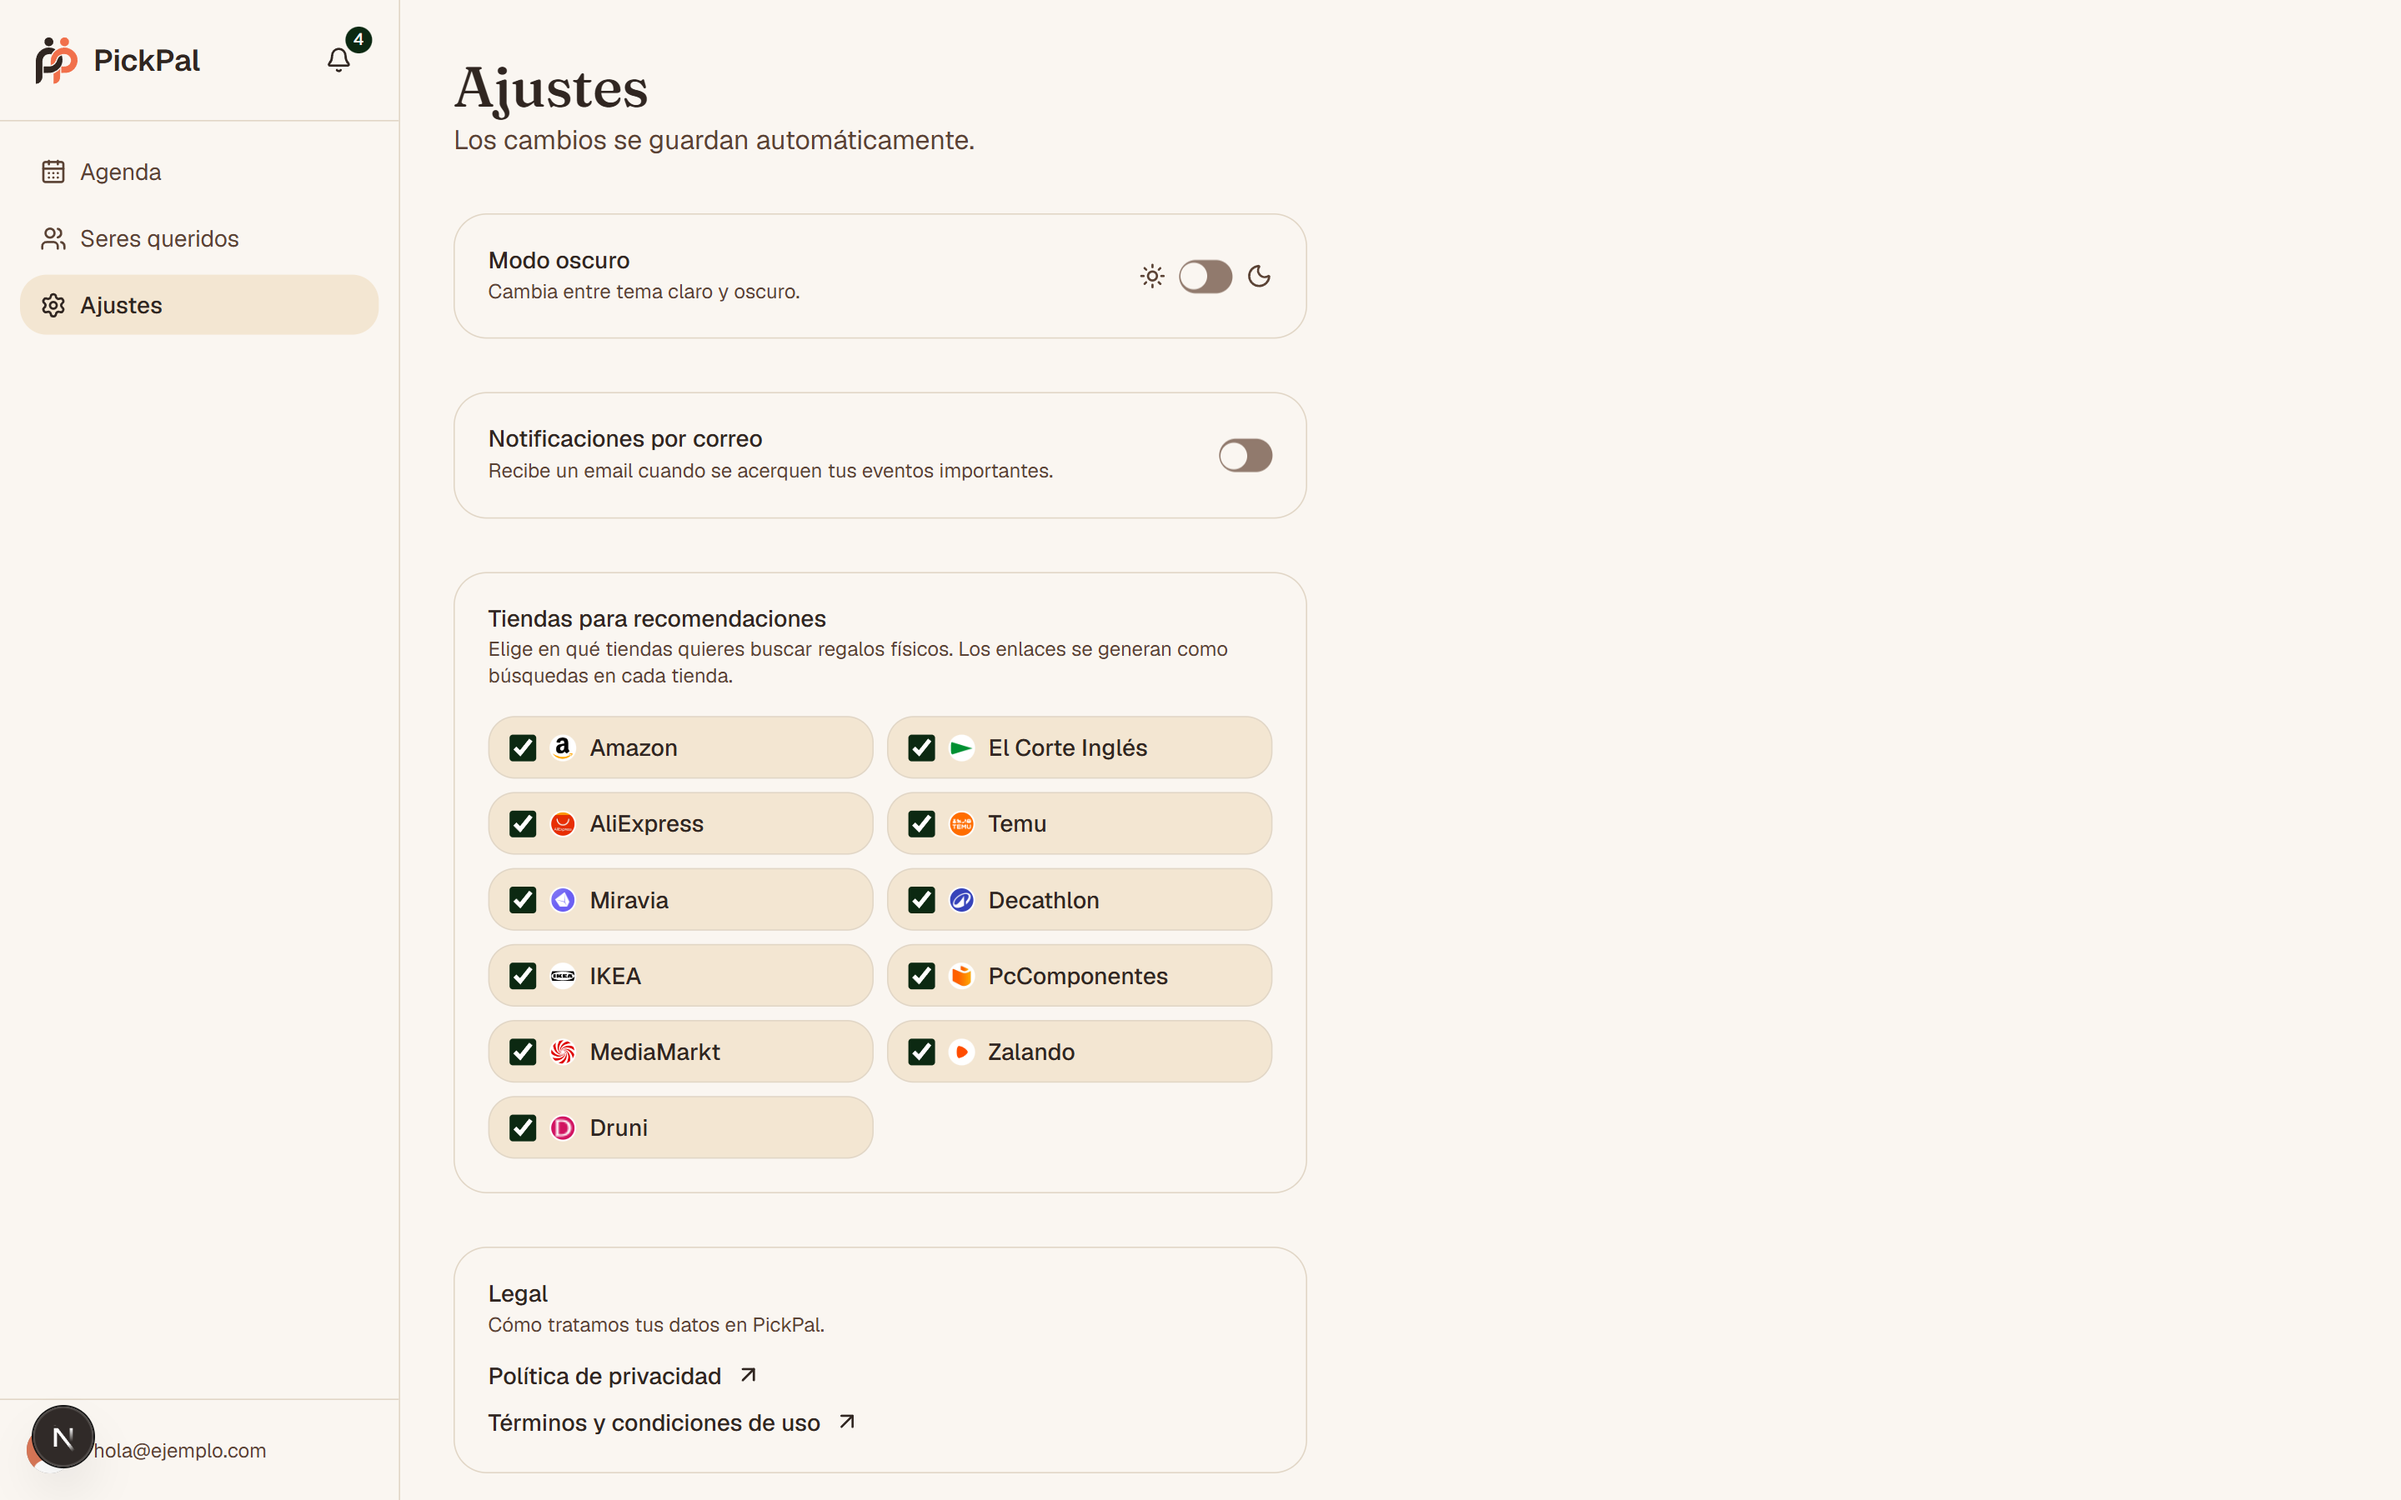
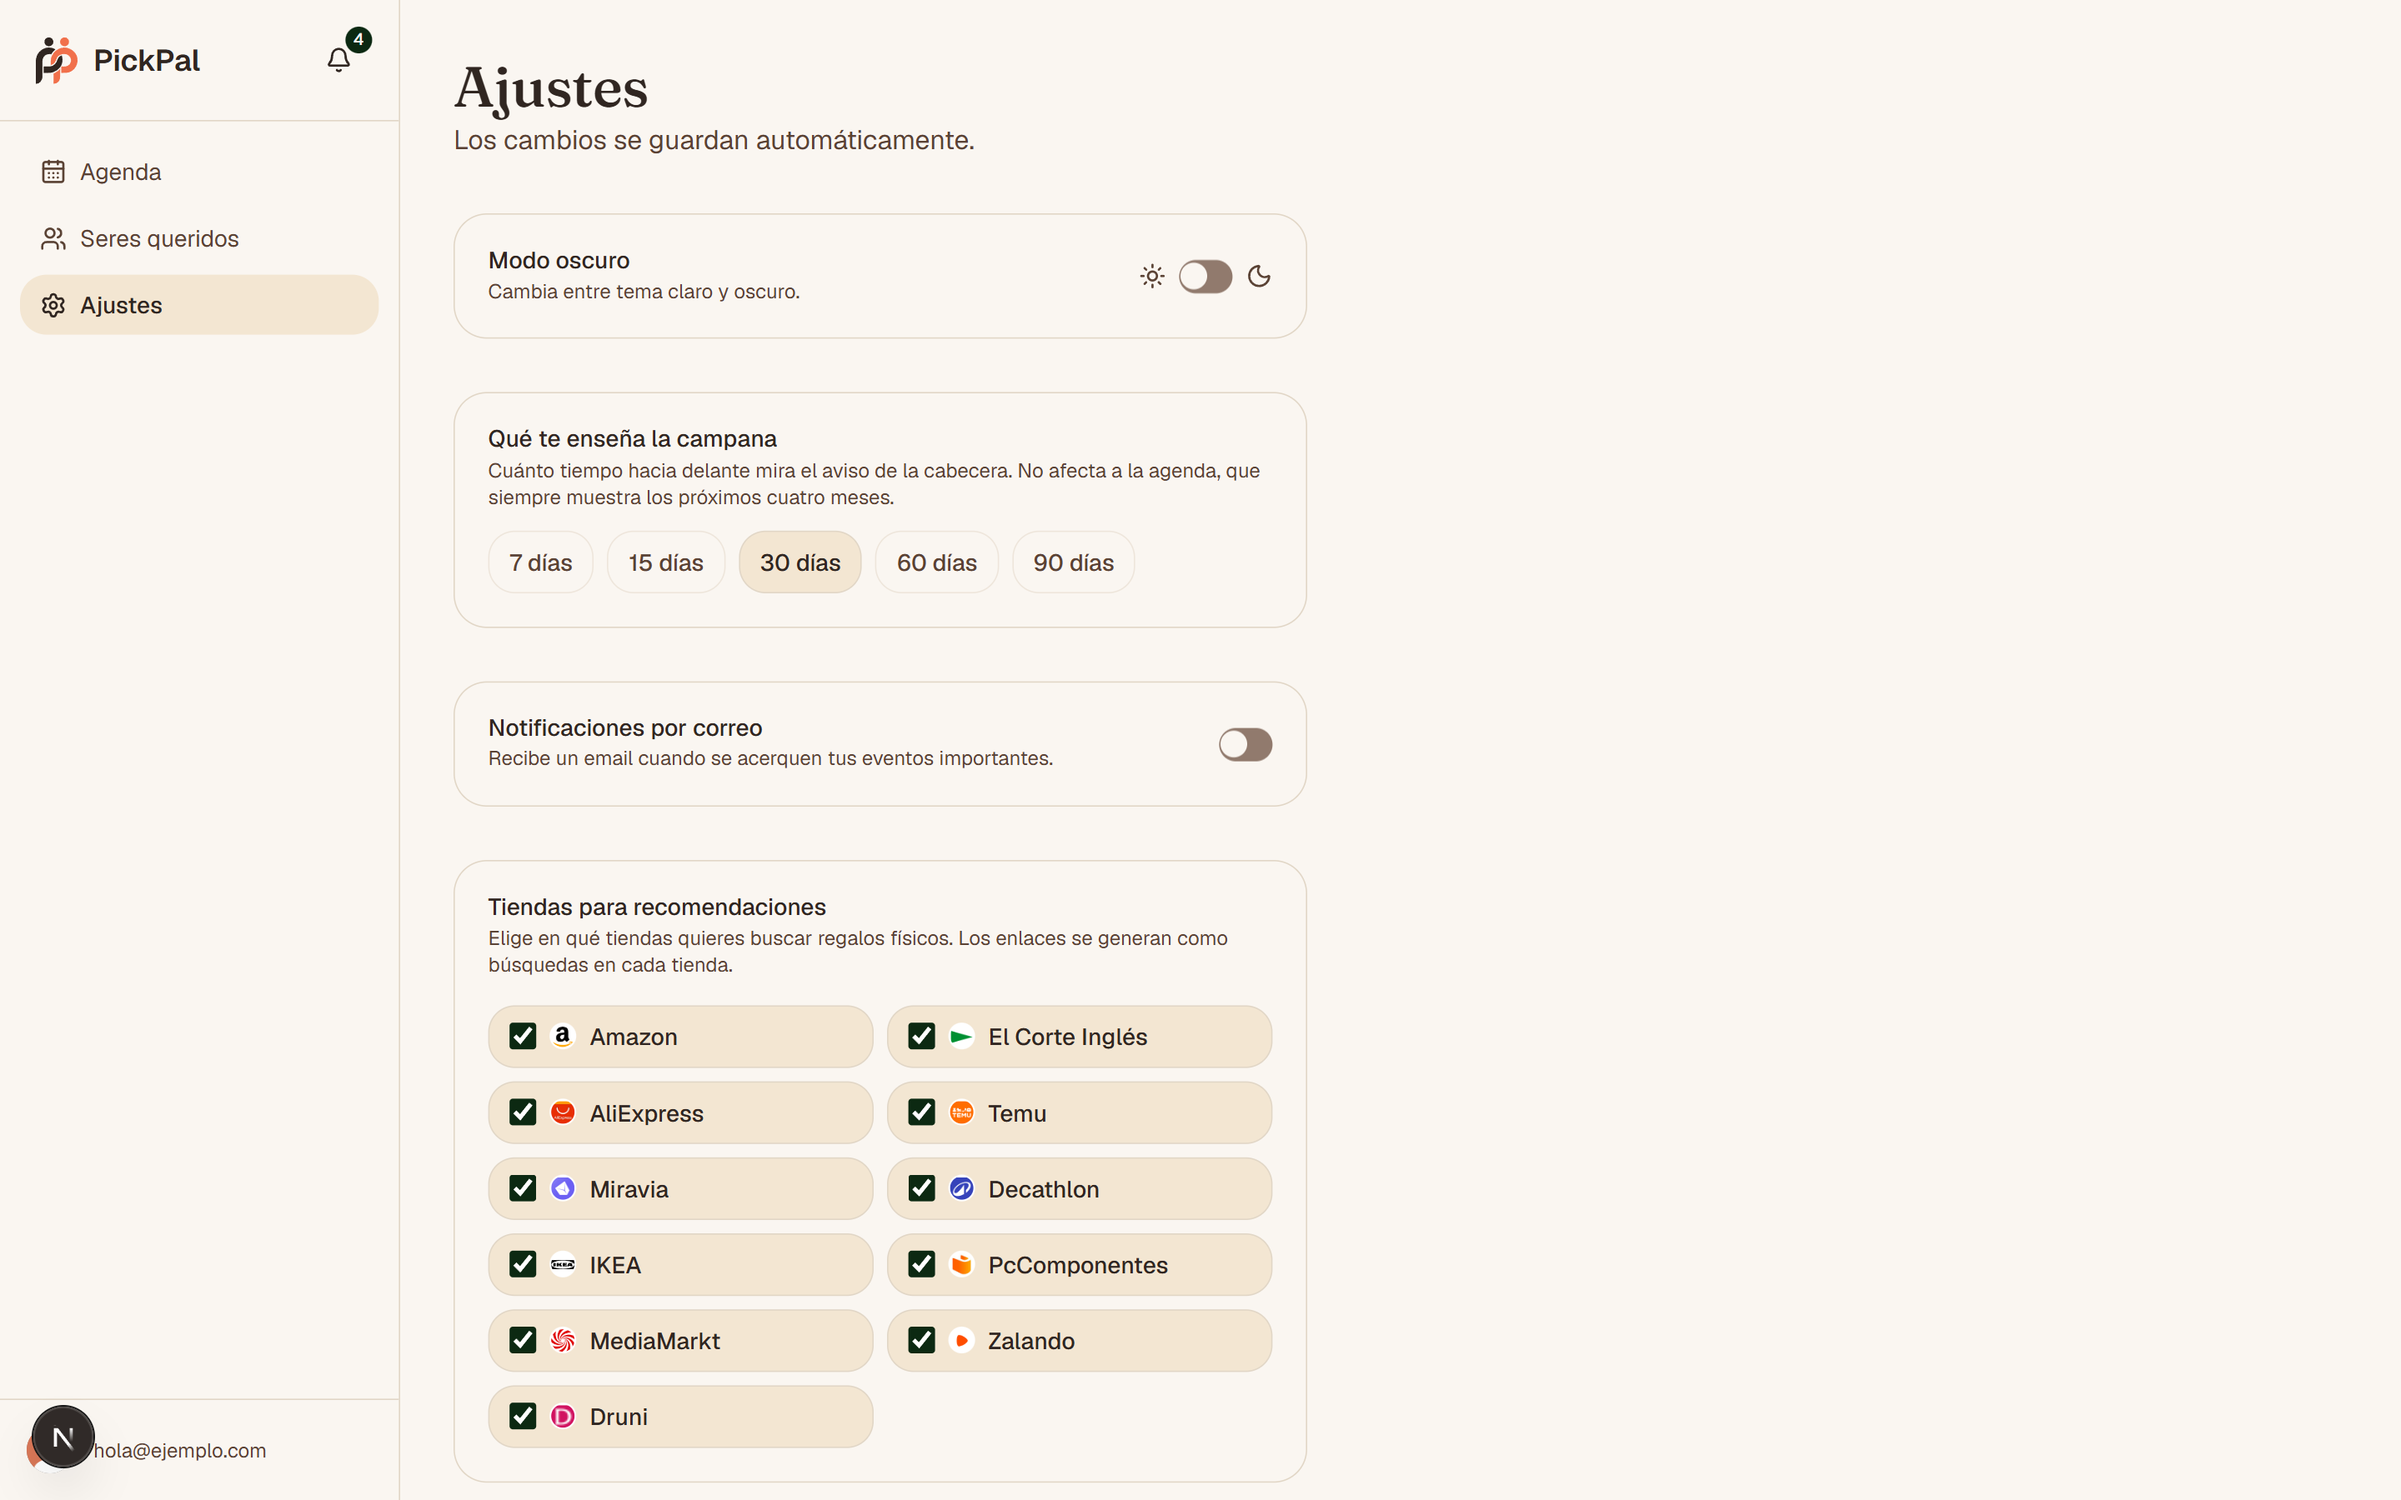
feat(settings): expose the notification window
notifyDaysBefore had been in userSettings from the start, validated 1–365
on the server and read by the header bell, and no screen ever exposed it.
It could only be changed through the API, which is the worst of both: a
setting that exists, works, and nobody can reach.

Exposed rather than removed. The backend was complete, so deleting the
field would have meant a schema migration to take away a capability that
already worked — and per this project's own note, removing a field breaks
production while documents still carry it.

/settings now offers five presets (7, 15, 30, 60, 90 days) instead of a
free number input. The server accepts the whole 1–365 range, but a text
field for this is more rope than anyone needs: presets make an invalid
state unreachable from the UI. The control reuses the optimistic save()
helper every other setting on the page uses, and says explicitly that it
does not affect the agenda, which always shows four months.

settings.test.ts covers the validation that now matters: the five presets,
both ends of the range, rejection of 0, negatives, 366 and non-integers,
that a rejected value does not overwrite the stored one, and that settings
are per-user. 185 tests in total.

Verified the control renders with the right default selected; the click
path is the same save() the rest of the page uses, and the bell reads
settings.notifyDaysBefore as it already did.

Changed region(s): [[0.1875, 0.28, 0.5312, 0.9644]]

diff --git a/convex/settings.test.ts b/convex/settings.test.ts
@@ -1,0 +1,99 @@
+/// <reference types="vite/client" />
+// @vitest-environment edge-runtime
+
+// `notifyDaysBefore` estuvo desde el principio en el schema, validado de 1 a
+// 365, y hasta el 20-sep-2026 ninguna pantalla lo exponía: solo se podía tocar
+// por API. Ahora hay un control en /settings, así que los rangos que el
+// servidor acepta pasan a importar de verdad.
+
+import { convexTest } from "convex-test";
+import { describe, expect, test } from "vitest";
+import { api } from "./_generated/api";
+import schema from "./schema";
+import {
+  DEFAULT_NOTIFY_DAYS_BEFORE,
+  DEFAULT_EMAIL_NOTIFICATIONS_ENABLED,
+} from "./settings";
+
+const modules = import.meta.glob("./**/*.ts");
+
+const ALICE = { subject: "user_alice", issuer: "https://test.clerk.dev" };
+const BOB = { subject: "user_bob", issuer: "https://test.clerk.dev" };
+
+describe("valores por defecto", () => {
+  test("la ventana de la campana arranca en 30", async () => {
+    const t = convexTest(schema, modules);
+    const s = await t.withIdentity(ALICE).query(api.settings.getMine, {});
+    expect(s.notifyDaysBefore).toBe(DEFAULT_NOTIFY_DAYS_BEFORE);
+    expect(DEFAULT_NOTIFY_DAYS_BEFORE).toBe(30);
+  });
+
+  test("los avisos por correo salen apagados, que es la base legal declarada", async () => {
+    const t = convexTest(schema, modules);
+    const s = await t.withIdentity(ALICE).query(api.settings.getMine, {});
+    expect(s.emailNotificationsEnabled).toBe(false);
+    expect(DEFAULT_EMAIL_NOTIFICATIONS_ENABLED).toBe(false);
+  });
+});
+
+describe("notifyDaysBefore", () => {
+  test("acepta los presets que ofrece la interfaz", async () => {
+    const t = convexTest(schema, modules);
+    const alice = t.withIdentity(ALICE);
+    for (const dias of [7, 15, 30, 60, 90]) {
+      await alice.mutation(api.settings.setMine, { notifyDaysBefore: dias });
+      const s = await alice.query(api.settings.getMine, {});
+      expect(s.notifyDaysBefore).toBe(dias);
+    }
+  });
+
+  test("acepta los extremos del rango", async () => {
+    const t = convexTest(schema, modules);
+    const alice = t.withIdentity(ALICE);
+    for (const dias of [1, 365]) {
+      await alice.mutation(api.settings.setMine, { notifyDaysBefore: dias });
+      expect((await alice.query(api.settings.getMine, {})).notifyDaysBefore).toBe(dias);
+    }
+  });
+
+  test("rechaza lo que cae fuera", async () => {
+    const t = convexTest(schema, modules);
+    const alice = t.withIdentity(ALICE);
+    for (const malo of [0, -1, 366, 1000]) {
+      await expect(
+        alice.mutation(api.settings.setMine, { notifyDaysBefore: malo }),
+      ).rejects.toThrow();
+    }
+  });
+
+  test("rechaza los no enteros", async () => {
+    const t = convexTest(schema, modules);
+    await expect(
+      t.withIdentity(ALICE).mutation(api.settings.setMine, { notifyDaysBefore: 7.5 }),
+    ).rejects.toThrow();
+  });
+
+  test("un valor rechazado no pisa el que ya estaba guardado", async () => {
+    const t = convexTest(schema, modules);
+    const alice = t.withIdentity(ALICE);
+    await alice.mutation(api.settings.setMine, { notifyDaysBefore: 15 });
+    await expect(
+      alice.mutation(api.settings.setMine, { notifyDaysBefore: 9999 }),
+    ).rejects.toThrow();
+    expect((await alice.query(api.settings.getMine, {})).notifyDaysBefore).toBe(15);
+  });
+
+  test("los ajustes son de cada usuario", async () => {
+    const t = convexTest(schema, modules);
+    await t.withIdentity(ALICE).mutation(api.settings.setMine, { notifyDaysBefore: 90 });
+    const deBob = await t.withIdentity(BOB).query(api.settings.getMine, {});
+    expect(deBob.notifyDaysBefore).toBe(DEFAULT_NOTIFY_DAYS_BEFORE);
+  });
+
+  test("sin sesión no se guarda nada", async () => {
+    const t = convexTest(schema, modules);
+    await expect(
+      t.mutation(api.settings.setMine, { notifyDaysBefore: 7 }),
+    ).rejects.toThrow(/Sesión no encontrada/);
+  });
+});

diff --git a/src/app/(app)/settings/page.tsx b/src/app/(app)/settings/page.tsx
@@ -32,6 +32,17 @@ import {
   type StoreId,
 } from "@/lib/stores";
 
+// Ventana de la campana. El servidor acepta de 1 a 365 (convex/settings.ts),
+// pero un campo numérico libre para esto es más cuerda de la que nadie
+// necesita: cinco presets cubren el uso real y no hay estado inválido posible.
+const NOTIFY_WINDOW_OPTIONS: { value: number; label: string }[] = [
+  { value: 7, label: "7 días" },
+  { value: 15, label: "15 días" },
+  { value: 30, label: "30 días" },
+  { value: 60, label: "60 días" },
+  { value: 90, label: "90 días" },
+];
+
 const EMAIL_LEAD_OPTIONS: { value: number; label: string }[] = [
   { value: 0, label: "El mismo día" },
   { value: 2, label: "2 días antes" },
@@ -48,6 +59,7 @@ export default function SettingsPage() {
   const setMine = useMutation(api.settings.setMine);
   const { resolvedTheme, setTheme } = useTheme();
 
+  const [notifyDays, setNotifyDays] = useState(30);
   const [emailEnabled, setEmailEnabled] = useState(false);
   const [emailDays, setEmailDays] = useState<number[]>([]);
   const [favoriteStores, setFavoriteStores] = useState<StoreId[]>([]);
@@ -79,6 +91,7 @@ export default function SettingsPage() {
 
   useEffect(() => {
     if (settings && !initializedRef.current) {
+      setNotifyDays(settings.notifyDaysBefore);
       setEmailEnabled(settings.emailNotificationsEnabled);
       // Defensive: el backend puede devolver número (legacy) o array (nuevo)
       // mientras se propagan los despliegues. Normalizamos siempre a array.
@@ -109,6 +122,12 @@ export default function SettingsPage() {
       revert();
       toast.error(userErrorMessage(err, "No se pudo guardar"));
     }
+  };
+
+  const handleNotifyWindow = (value: number) => {
+    const previous = notifyDays;
+    setNotifyDays(value);
+    save({ notifyDaysBefore: value }, () => setNotifyDays(previous));
   };
 
   const handleEmailToggle = (checked: boolean) => {
@@ -212,6 +231,42 @@ export default function SettingsPage() {
             />
             <Moon className="size-4 text-muted-foreground" aria-hidden />
           </div>
+        </div>
+      </section>
+
+      <section className="space-y-3 rounded-xl border p-5">
+        <div className="space-y-1">
+          <Label id="notify-window-label">Qué te enseña la campana</Label>
+          <p className="text-xs text-muted-foreground">
+            Cuánto tiempo hacia delante mira el aviso de la cabecera. No afecta a
+            la agenda, que siempre muestra los próximos cuatro meses.
+          </p>
+        </div>
+        <div
+          role="radiogroup"
+          aria-labelledby="notify-window-label"
+          className="flex flex-wrap gap-2"
+        >
+          {NOTIFY_WINDOW_OPTIONS.map((opt) => {
+            const checked = notifyDays === opt.value;
+            return (
+              <button
+                key={opt.value}
+                type="button"
+                role="radio"
+                aria-checked={checked}
+                onClick={() => handleNotifyWindow(opt.value)}
+                className={[
+                  "rounded-lg border px-3 py-2 text-sm font-medium transition-colors",
+                  checked
+                    ? "border-border bg-muted text-foreground"
+                    : "border-border/50 text-muted-foreground hover:border-border hover:bg-muted/40 hover:text-foreground",
+                ].join(" ")}
+              >
+                {opt.label}
+              </button>
+            );
+          })}
         </div>
       </section>
 

diff --git a/docs/dudas.md b/docs/dudas.md
@@ -10,14 +10,6 @@ Preguntas abiertas del proyecto, y el registro de las que se cerraron.
 
 ## Abiertas
 
-- [ ] **La ventana de la campana no se puede cambiar desde la app.**
-  `notifyDaysBefore` existe en `userSettings`, el servidor acepta de 1 a 365 y el
-  default es 30, pero **ninguna pantalla lo expone**: `/settings` no tiene ese
-  control. O se añade, o se quita el campo y se fija en 30. Lo que no conviene es
-  dejar un ajuste que solo se puede tocar por API.
-  (Distinto de la antelación del **email**, que sí es configurable: 0, 2, 7 y 14
-  días, y se pueden marcar varios.)
-
 - [ ] **Compartir personas entre usuarios.**
   Ej.: la ficha de los padres, compartida entre hermanos. Cada persona pertenece
   hoy a un único usuario (`clerkUserId` en `people`), y todo el modelo de permisos
@@ -43,6 +35,16 @@ Preguntas abiertas del proyecto, y el registro de las que se cerraron.
 ---
 
 ## Resueltas
+
+- [x] **La ventana de la campana ya se puede cambiar.** `notifyDaysBefore` llevaba
+  desde el principio en `userSettings`, validado de 1 a 365 en el servidor, y
+  hasta el 20-sep-2026 **ninguna pantalla lo exponía**: solo se podía tocar por
+  API. Se resolvió exponiéndolo, no quitándolo: el backend estaba entero y
+  borrar el campo habría pedido una migración de schema para eliminar una
+  capacidad que funcionaba. `/settings` ofrece cinco presets (7, 15, 30, 60 y 90
+  días) en lugar de un campo numérico libre, así que no hay estado inválido
+  posible aunque el servidor acepte todo el rango. (Distinto de la antelación del
+  **email**, que es un selector múltiple de 0, 2, 7 y 14 días.)
 
 - [x] **¿Se guardan las recomendaciones o se regeneran cada vez?** Se guardan. La
   tabla `recommendations` las cachea por `(usuario, persona, ocasión, tipo de
